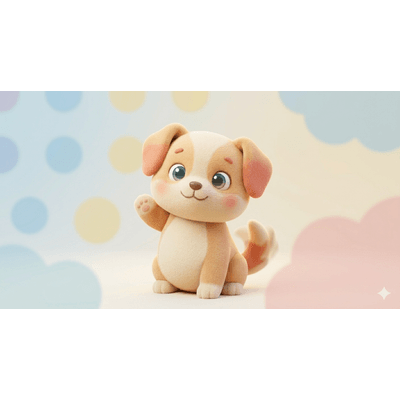
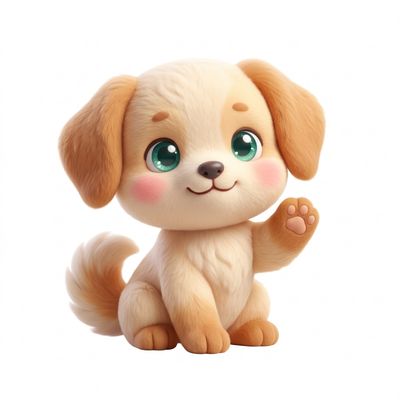
feat: use AI-generated PNG for dog pet (clay 3D style)
Replace PetDogSVG with Gemini-generated clay toy chibi PNG (400x400, ~200KB).
PetAvatar now checks PET_PNGS map first; falls back to SVG for remaining species.
Other 6 species keep SVG until their PNGs are generated and approved.

diff --git a/src/components/kid-ui/PetAvatar.tsx b/src/components/kid-ui/PetAvatar.tsx
@@ -1,9 +1,8 @@
-import { Text } from 'react-native';
+import { Text, Image } from 'react-native';
 import type { PetSpecies } from '../../types';
-import { PetDogSVG }     from './PetDogSVG';
 import { PetCatSVG }     from './PetCatSVG';
 import { PetRabbitSVG }  from './PetRabbitSVG';
-import { PetBearSVG }    from './PetBearSVG';     // polar-bear
+import { PetBearSVG }    from './PetBearSVG';
 import { PetTigerSVG }   from './PetTigerSVG';
 import { PetDragonSVG }  from './PetDragonSVG';
 import { PetUnicornSVG } from './PetUnicornSVG';
@@ -17,9 +16,26 @@ interface Props {
   baseColor?: string;
 }
 
+// PNG assets (generated AI art — replace SVG when available)
+const PET_PNGS: Partial<Record<PetSpecies, ReturnType<typeof require>>> = {
+  dog: require('../../../assets/pets/pet-dog.png'),
+};
+
 export function PetAvatar({ species, size = 180, mood = 'idle', baseColor }: Props) {
+  // Use PNG if available for this species
+  const png = PET_PNGS[species];
+  if (png) {
+    return (
+      <Image
+        source={png}
+        style={{ width: size, height: size }}
+        resizeMode="contain"
+      />
+    );
+  }
+
+  // Fall back to SVG for species without a PNG yet
   switch (species) {
-    case 'dog':        return <PetDogSVG    size={size} mood={mood} baseColor={baseColor} />;
     case 'cat':        return <PetCatSVG    size={size} mood={mood} baseColor={baseColor} />;
     case 'rabbit':     return <PetRabbitSVG size={size} mood={mood} baseColor={baseColor} />;
     case 'polar-bear': return <PetBearSVG   size={size} mood={mood} />;
